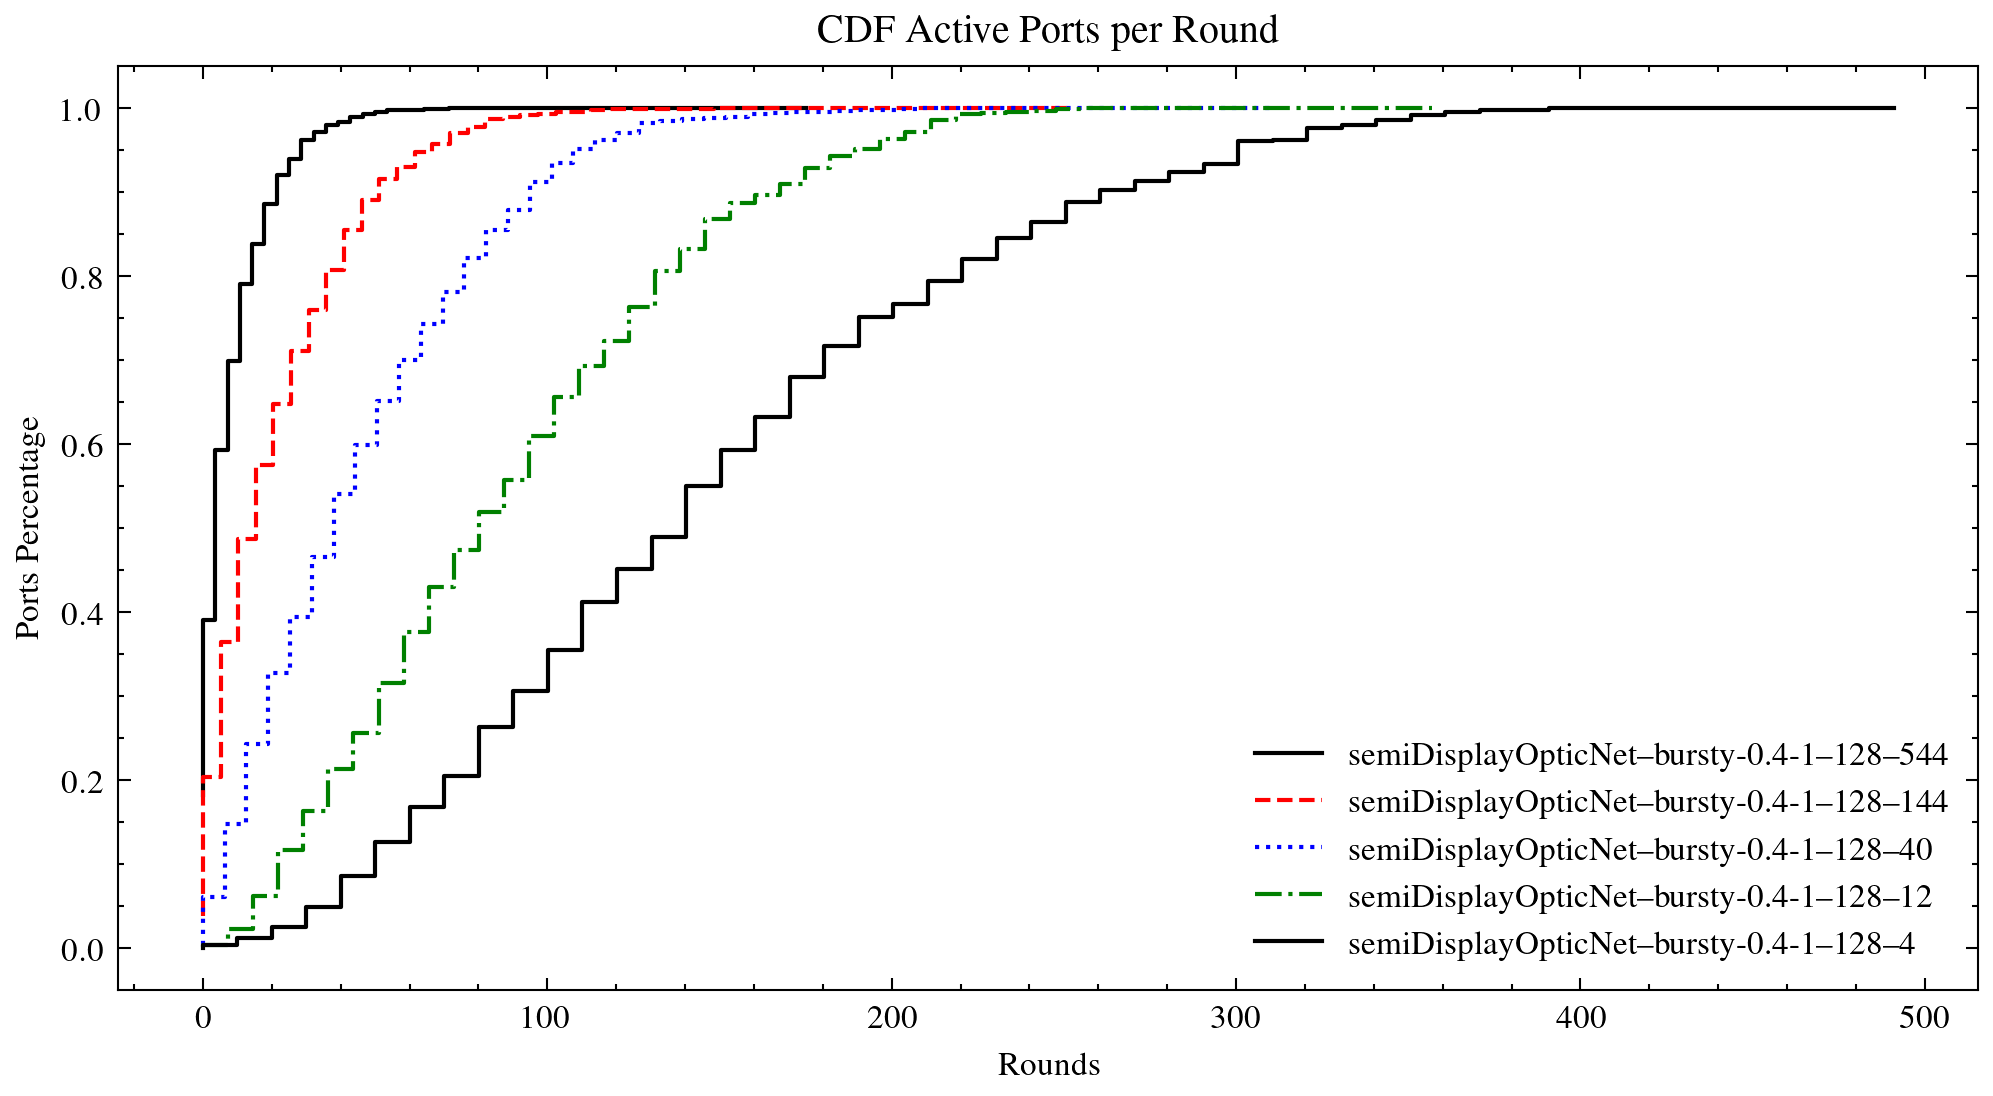
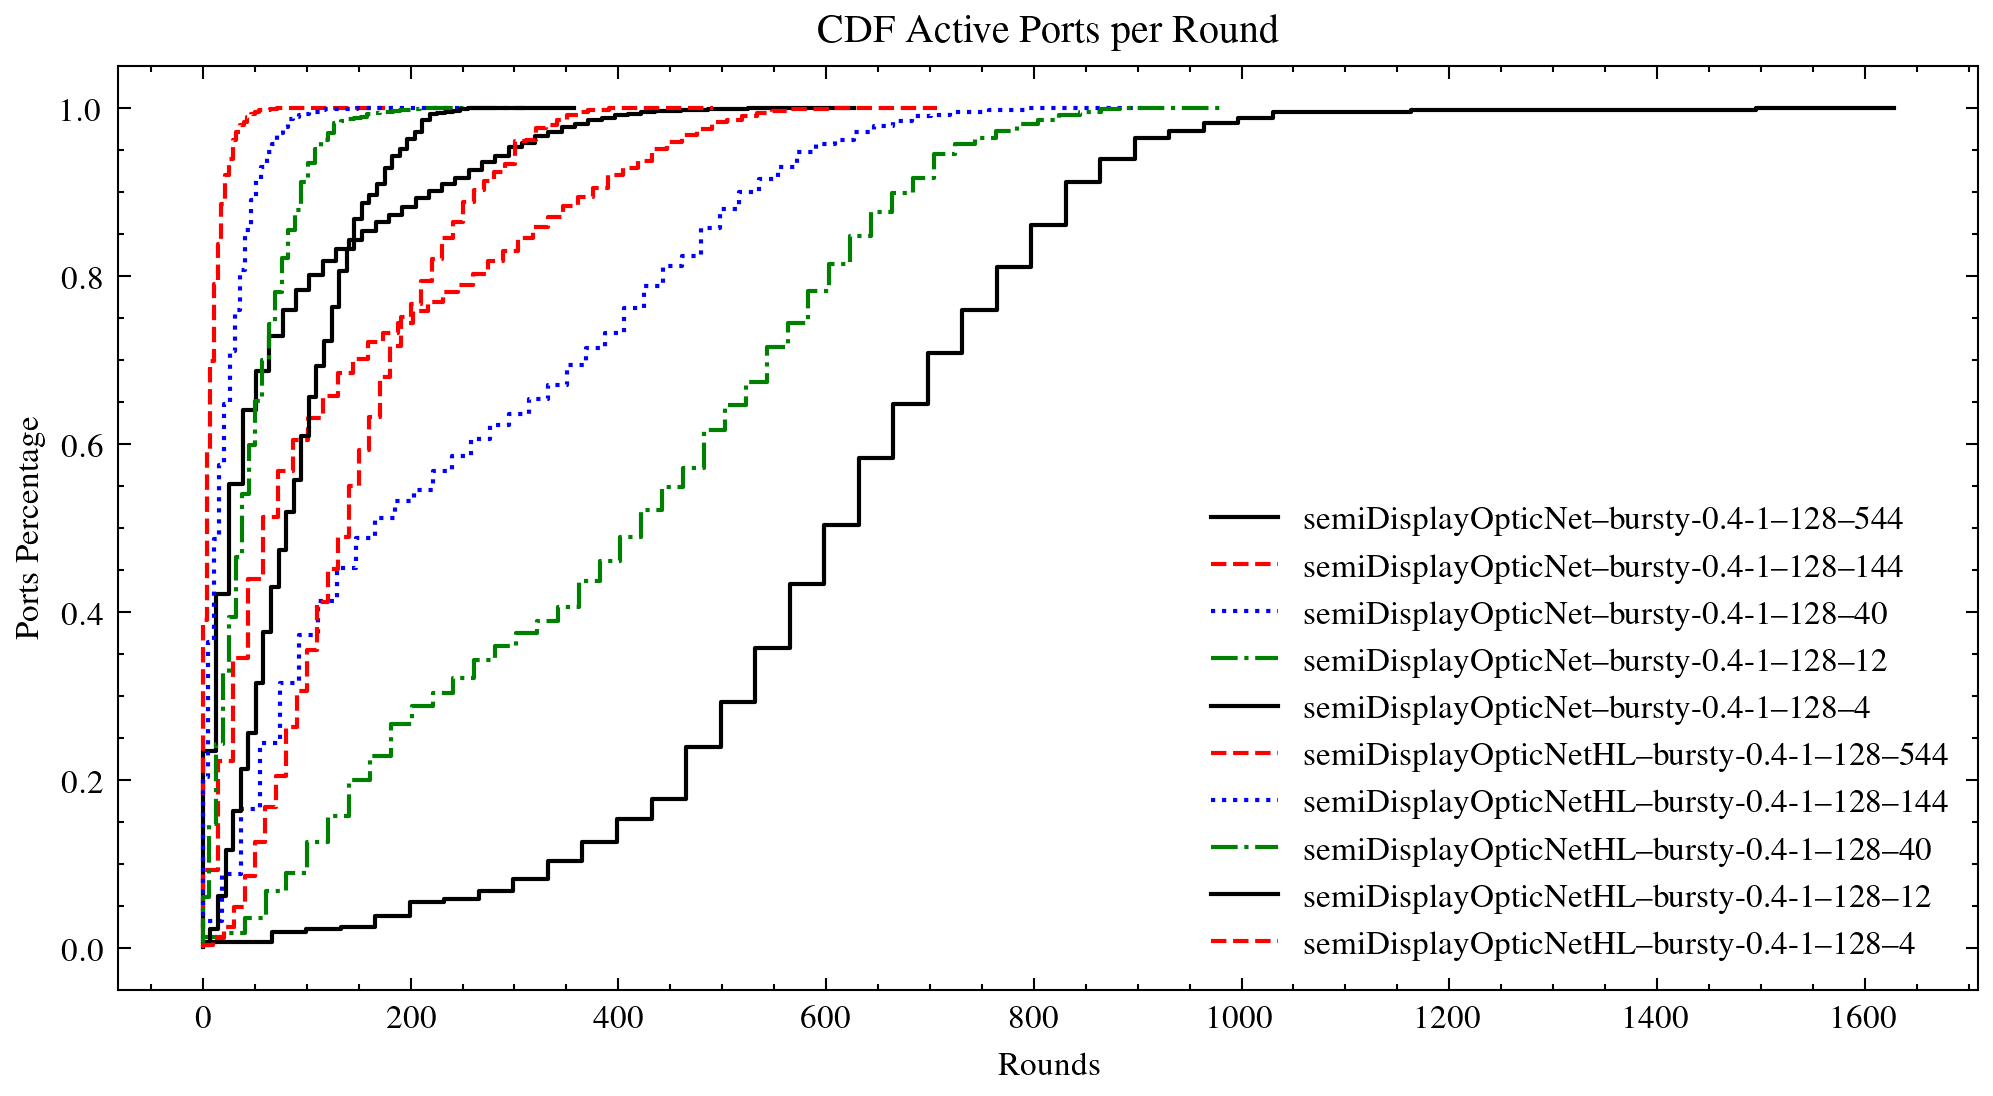
corrected alteration plot for heuristic links

diff --git a/plotter/DataReader.py b/plotter/DataReader.py
@@ -55,21 +55,6 @@ class DataReader:
         )
 
 
-    def cdf_active_switches (self) -> np.ndarray:
-        cdf = np.zeros(self.num_switches, dtype=np.float64)
-
-        rout_df = pd.read_csv(self.file_path / "1/routings.csv")
-        alt_df = pd.read_csv(self.file_path / "1/alterations.csv")
-
-        active_df = pd.concat(
-            [rout_df[["round", "switch"]], alt_df[["round", "switch"]]]
-        ).drop_duplicates().reset_index(drop=True)
-
-        for _, row in active_df.iterrows():
-            cdf[row["switch"]] += 1
-
-        return cdf / 10**3
-
     def cdf_active_ports (self) -> np.ndarray:
         cdf = np.zeros((self.num_switches, self.switch_ports), dtype=np.float64)
 
@@ -144,19 +129,17 @@ class DataReader:
     def read_operations (self) -> tuple[np.ndarray, np.ndarray, np.ndarray]:
         total_routing = np.empty(self.num_sims)
         total_alterations = np.empty(self.num_sims)
-        total_heuristic_creation = np.empty(self.num_sims)
-
+        
         for sim_id in range(1, self.num_sims + 1):
             file_df = pd.read_csv(self.file_path / f"{sim_id}/operations.csv")
 
             total_routing[sim_id - 1] = file_df.loc[file_df.name=="message-routing", "sum"].item()
-            total_heuristic_creation[sim_id - 1] = file_df.loc[file_df.name=="heuristic-link-creation", "sum"].item()
             total_alterations[sim_id - 1] = file_df.loc[file_df.name=="alteration", "sum"].item()
 
-        total_work = total_routing + total_alterations + total_heuristic_creation
+        total_work = total_routing + total_alterations
 
         print(f"finish reading {self.num_nodes}|{self.switch_size}")
-        return total_routing, total_alterations, total_heuristic_creation, total_work
+        return total_routing, total_alterations, total_work
 
     def read_throughput (self) -> np.ndarray:
         raw = np.zeros((self.num_sims, self.max_rounds), dtype=np.ndarray)

diff --git a/plotter/Plotter.py b/plotter/Plotter.py
@@ -10,8 +10,8 @@ abbr: dict[str, str] = {
     "cbOptNet": "CBN",
     "displayOpticNet": "ODSN",
     "semiDisplayOpticNet": "DSN",
-    "HLsemiDisplayOpticNet": "HLDSN",
-    "HLSplayOpticNet": "HLSON"
+    "semiDisplayOpticNetHL" : "DSNHL",
+    "SplayOpticNet": "SN"
 }
 
 @dc.dataclass()
@@ -35,12 +35,11 @@ class Plotter:
         for data in plot_data:
             project_name = cls.get_project_name(data)
 
-            total_routing, total_link_updates, total_heuristic_creation, total_work = data.read_operations()            
+            total_routing, total_link_updates, total_work = data.read_operations()            
 
             project_names.append(project_name)
             routing_means.append(total_routing.mean() / normalize)
             alteration_means.append(total_link_updates.mean() / normalize)
-            heuristic_creation_means.append(total_heuristic_creation.mean() / normalize)
             work_stds.append((total_work / normalize).std())
             switch_sizes.append(data.switch_size)
 
@@ -51,14 +50,10 @@ class Plotter:
             ax.set_xlabel("Project")
             ax.set_ylabel("Work * 10 ^ 4")
 
-        ax.bar(switch_sizes, routing_means, label="Service Cost", color=["silver"])
+        ax.bar(project_names, routing_means, label="Service Cost", color=["silver"])
         ax.bar(
-            switch_sizes, alteration_means, 
-            bottom=routing_means, label="Link Updates",  color=["grey"]
-        )
-        ax.bar(
-            switch_sizes, heuristic_creation_means, yerr=work_stds,
-            bottom=routing_means, label="Heuristic Links",  color=["red"]
+            project_names, alteration_means, 
+            bottom=routing_means, label="Link Adjustments",  color=["grey"]
         )
         ax.legend(loc="best")
         

diff --git a/plotter/plot_script.py b/plotter/plot_script.py
@@ -23,12 +23,12 @@ reload(Plotter)
 
 # In[3]:
 
-projects = [ "HLsemiDisplayOpticNet"
-#,"semiDisplayOpticNet"
-#,"HLSplayOpticNet"
+projects = [ "semiDisplayOpticNet"
+,"semiDisplayOpticNetHL"
+#,"SplayOpticNet"
 ]
 switch_sizes = [ 16, 32, 64, 128, 256 ]
-num_simulations = 30
+num_simulations = 1
 datasets = [ "bursty-0.4-1" ]
 num_nodes = [ 128 ]
 mus = [ 4 ]
@@ -93,25 +93,6 @@ Plotter.Plotter.total_work_link_updates(tor_data[slc], normalize=1e4, ax=ax)
 
 ax.plot()
 fig.savefig(f"output/{sys.argv[1]}/total_work.png", dpi=300, transparent=False)
-plt.close(fig)
-
-print("finish")
-
-fig, ax = plt.subplots(figsize=(8, 4))
-ax.set_title("CDF Active switches per round")
-ax.set_xlabel("Rounds")
-ax.set_ylabel("Switches Percentage")
-
-for data in tor_data[slc]:
-    Plotter.Plotter.cdf_active_switches(data.cdf_active_switches(), ax)
-
-ax.legend([
-    f"{data.project}--{data.dataset}--{data.num_nodes}--{data.num_switches}"
-    for data in tor_data[slc]
-], loc="best", frameon=False)
-
-ax.plot()
-fig.savefig(f"output/{sys.argv[1]}/active_switches.png", dpi=300, transparent=False)
 plt.close(fig)
 
 print("finish")
